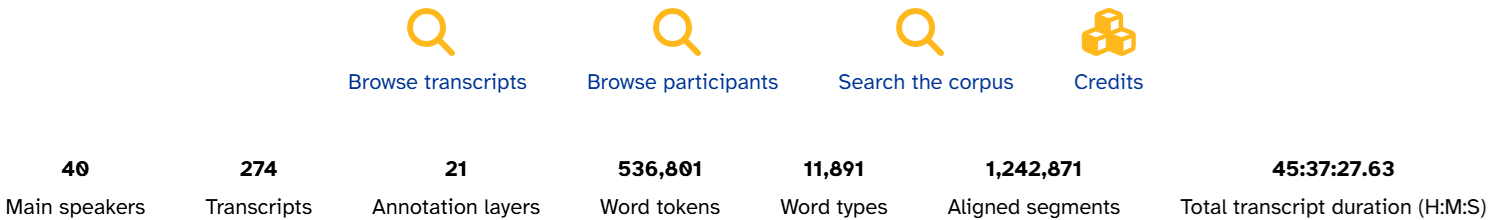
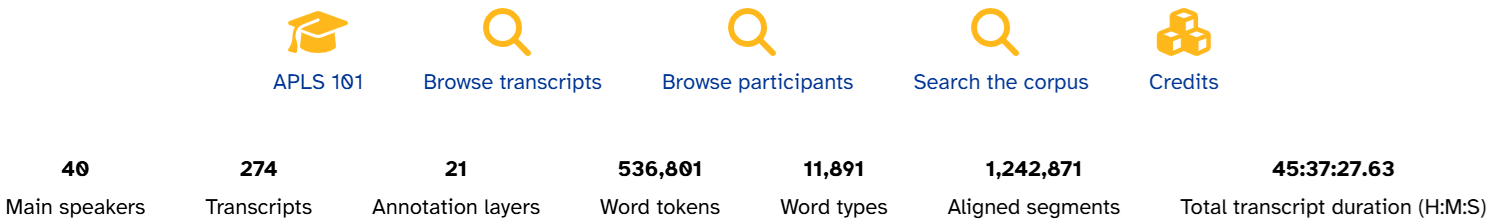
Tweak screengrabs for APLS 101

diff --git a/doc/apls-101-getting-started/navigation.md b/doc/apls-101-getting-started/navigation.md
@@ -4,7 +4,7 @@ contributors: [Dan Villarreal, Jack Rechsteiner]
 permalink: /doc/navigation
 parent: APLS 101/Getting started
 nav_order: 50
-last_modified_date: 2025-10-15T01:44:06-04:00
+last_modified_date: 2025-10-15T17:48:41-04:00
 ---
 
 # {{ page.title }}
@@ -75,10 +75,8 @@ Unique to <span class="apls-page">Home</span> page are links to some useful APLS
 
 From left to right, the available links are:
 
-{% comment %}
 - *APLS 101*
-  - This takes you to the [APLS 101/Getting started]({{ '/doc/apls-101-getting-started' | relative_url }}) section of the documentation pages.
-{% endcomment %}
+  - This takes you to the [APLS 101/Getting started]({{ '/doc/apls-101-getting-started' | relative_url }}) section of the documentation site.
 - *Browse transcripts*
   - This loads the <span class="apls-page">Transcripts</span> page, which is explained on the [Browsing transcripts]({{ '/doc/browse-transcripts' | relative_url }}) documentation page.
 - *Browse participants*
